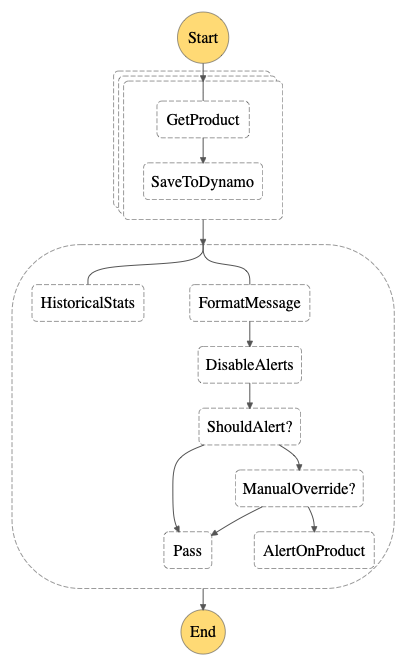
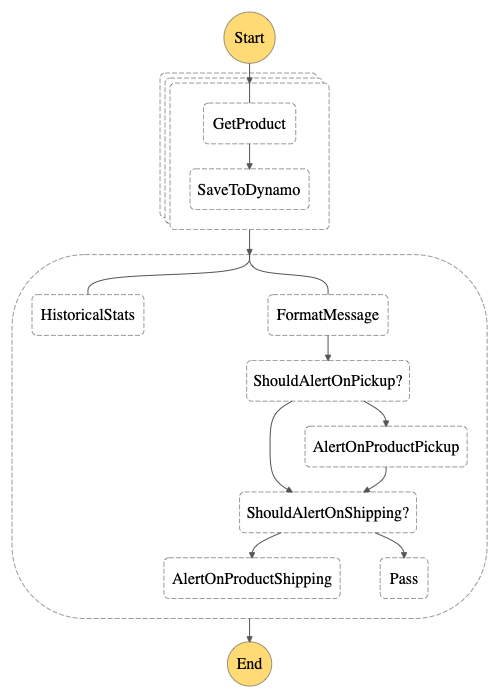
update docs

diff --git a/README.md b/README.md
@@ -48,7 +48,7 @@ There are three Lambda functions in this state machine
 
 ### Product Checker
 
-The Product Checker function recieves a product as input.  It will query the Target API and parse the results.  It will return a list of stores for the product (if any), and the total count.  In addition, it will calculate a TTL for saving this result in DynamoDB.
+The Product Checker function recieves a product as input.  It will query the Target API and parse the results.  It will return a list of stores for the product (if any), and the total count.  It will also query the API for shipping options.  In addition, it will calculate a TTL for saving this result in DynamoDB.
 
 ### Message Formatter
 
